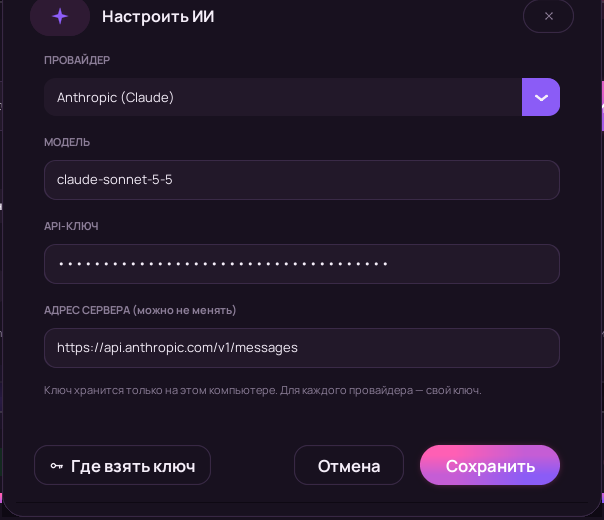
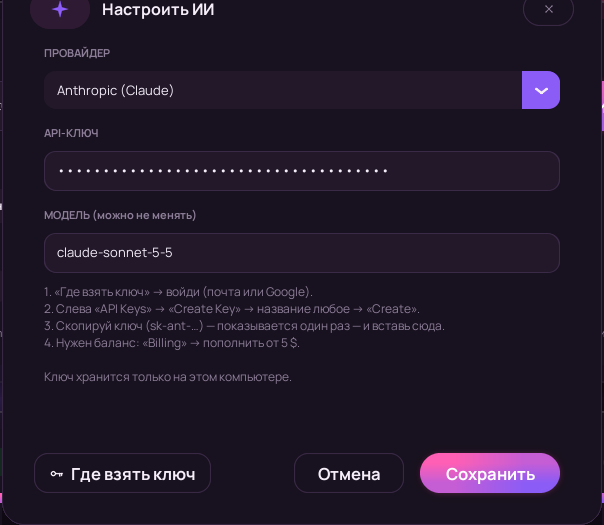
2.5.1: адрес сервера автоматом, пошаговые подсказки где взять ключ
Claude-Session: https://claude.ai/code/session_01S2yJaERcb5RkzNkB8S1xRH

diff --git a/docs/guide.html b/docs/guide.html
@@ -95,11 +95,11 @@ footer{margin-top:48px;color:var(--muted);font-size:12px;border-top:1px solid va
 <p>Работает с <b>любым ИИ</b>. При первом нажатии «Сделать через API» откроется окно <b>Настроить ИИ</b> (оно же — кнопка с шестерёнкой рядом или меню <b>ИИ → Настроить ИИ</b>):</p>
 <ol>
 <li><b>Провайдер</b> — выбери из списка: Anthropic (Claude), OpenAI (GPT), Google Gemini, DeepSeek, Mistral, Groq, xAI (Grok), OpenRouter (любая модель одним ключом), Ollama (локально, бесплатно, без ключа) или свой сервер.</li>
-<li><b>Модель</b> — подставится сама, можно оставить.</li>
-<li><b>API-ключ</b> — вставь тот, что тебе дали, или нажми <b>Где взять ключ</b> — откроется сайт провайдера. Для Ollama ключ не нужен.</li>
+<li><b>API-ключ</b> — вставь тот, что тебе дали. Нет ключа — под полями пошаговая подсказка, где его взять, а кнопка <b>Где взять ключ</b> сразу открывает нужный сайт. Для Ollama ключ не нужен.</li>
+<li><b>Модель</b> и адрес сервера подставляются сами — ничего вводить не нужно.</li>
 <li><b>Сохранить</b>. Ключ хранится только на этом компьютере, для каждого провайдера — свой.</li>
 </ol>
-<img class="shot" src="img/dialog-ai.png" alt="Окно Настроить ИИ"><p class="cap">Окно «Настроить ИИ»: провайдер, модель, ключ, адрес сервера.</p>
+<img class="shot" src="img/dialog-ai.png" alt="Окно Настроить ИИ"><p class="cap">Окно «Настроить ИИ»: провайдер, ключ, модель и пошаговая подсказка, где взять ключ.</p>
 </div></div>
 <div class="step"><div class="n">3</div><div>
 <h3>Без API — через чат Claude</h3>

diff --git a/app.py b/app.py
@@ -26,7 +26,7 @@ import urllib.request
 import tkinter as tk
 from tkinter import font as tkfont
 
-APP_VERSION = "2.5.0"
+APP_VERSION = "2.5.1"
 UPDATE_URL = "https://raw.githubusercontent.com/alegawhats-del/Whispy/main/version.json"
 GITHUB_URL = "https://github.com/alegawhats-del/Whispy"
 
@@ -1504,10 +1504,23 @@ class FilesPanel(Panel):
 
 
 class AIPanel(Panel):
-    """Настройки ИИ: провайдер, модель, ключ, адрес сервера."""
+    """Настройки ИИ: провайдер, модель, ключ. Адрес сервера подставляется сам (виден только для локальных вариантов)."""
+
+    KEY_STEPS = {
+        "Anthropic (Claude)": "1. «Где взять ключ» → войди (почта или Google).\n2. Слева «API Keys» → «Create Key» → название любое → «Create».\n3. Скопируй ключ (sk-ant-…) — показывается один раз — и вставь сюда.\n4. Нужен баланс: «Billing» → пополнить от 5 $.",
+        "OpenAI (GPT)": "1. «Где взять ключ» → войди.\n2. «Create new secret key» → «Create» → скопируй (sk-…).\n3. Нужен баланс: Settings → Billing → пополнить от 5 $.",
+        "Google Gemini": "1. «Где взять ключ» → войди в Google-аккаунт.\n2. «Create API key» → скопируй (AIza…).\n3. Есть бесплатный лимит — платить не нужно.",
+        "DeepSeek": "1. «Где взять ключ» → регистрация по почте.\n2. Слева «API keys» → «Create new API key» → скопируй (sk-…).\n3. Очень дёшево, нужно пополнить «Top up».",
+        "Mistral": "1. «Где взять ключ» → регистрация.\n2. «API Keys» → «Create new key» → скопируй.\n3. Есть бесплатный тариф Experiment.",
+        "Groq (быстро, бесплатно)": "1. «Где взять ключ» → войди через Google.\n2. «Create API Key» → название любое → скопируй (gsk_…).\n3. Бесплатно, с лимитом запросов в минуту.",
+        "xAI (Grok)": "1. «Где взять ключ» → войди (X/Google).\n2. «API Keys» → «Create API key» → скопируй (xai-…).\n3. Нужно пополнить баланс.",
+        "OpenRouter (любая модель)": "1. «Где взять ключ» → войди через Google.\n2. «Create Key» → скопируй (sk-or-…).\n3. Один ключ — сотни моделей: в поле «Модель» любое имя с openrouter.ai/models.",
+        "Ollama (локально)": "Бесплатно и без интернета:\n1. «Где взять ключ» → скачай и установи Ollama.\n2. В командной строке: ollama pull llama3.1\n3. Ключ не нужен — просто «Сохранить».",
+        "Свой сервер (OpenAI API)": "Любой OpenAI-совместимый сервер (LM Studio, vLLM, LocalAI):\nукажи адрес вида http://адрес:порт/v1/chat/completions и ключ, если сервер его требует.",
+    }
 
     def __init__(self, master):
-        super().__init__(master, 600, 545)
+        super().__init__(master, 600, 560)
         self.header("sparkle", T["VIOLET"], T["PINK_SOFT"], "Настроить ИИ")
         cfg = master.ai_cfg
         f_lab = ctk.CTkFont(family=UI_FONT, size=11, weight="bold")
@@ -1521,24 +1534,27 @@ class AIPanel(Panel):
         ctk.CTkOptionMenu(box, variable=self.prov, values=list(AI_PROVIDERS.keys()), height=38, corner_radius=12, font=f_in,
                           fg_color=T["FIELD"], button_color=T["VIOLET"], button_hover_color=T["PINK"], text_color=T["TEXT"],
                           dropdown_fg_color=T["CARD"], dropdown_text_color=T["TEXT"], dropdown_hover_color=T["PINK_SOFT"],
-                          dropdown_font=f_in, command=self._on_provider).grid(row=1, column=0, sticky="ew", pady=(4, 12))
-
-        ctk.CTkLabel(box, text="МОДЕЛЬ", text_color=T["MUTED"], font=f_lab, anchor="w").grid(row=2, column=0, sticky="w")
-        self.model = tk.StringVar(value=cfg.get("model", ""))
-        self._entry(box, self.model, f_in).grid(row=3, column=0, sticky="ew", pady=(4, 12))
+                          dropdown_font=f_in, command=self._on_provider).grid(row=1, column=0, sticky="ew", pady=(4, 10))
 
         self.key_lbl = ctk.CTkLabel(box, text="API-КЛЮЧ", text_color=T["MUTED"], font=f_lab, anchor="w")
-        self.key_lbl.grid(row=4, column=0, sticky="w")
-        self.key = tk.StringVar(value=cfg.get("keys", {}).get(self.prov.get(), ""))
+        self.key_lbl.grid(row=2, column=0, sticky="w")
+        self.key = tk.StringVar()
         self.key_entry = self._entry(box, self.key, f_in, secret=True)
-        self.key_entry.grid(row=5, column=0, sticky="ew", pady=(4, 12))
+        self.key_entry.grid(row=3, column=0, sticky="ew", pady=(4, 10))
 
-        ctk.CTkLabel(box, text="АДРЕС СЕРВЕРА (можно не менять)", text_color=T["MUTED"], font=f_lab, anchor="w").grid(row=6, column=0, sticky="w")
-        self.base = tk.StringVar(value=cfg.get("base", ""))
-        self._entry(box, self.base, f_in).grid(row=7, column=0, sticky="ew", pady=(4, 8))
+        ctk.CTkLabel(box, text="МОДЕЛЬ (можно не менять)", text_color=T["MUTED"], font=f_lab, anchor="w").grid(row=4, column=0, sticky="w")
+        self.model = tk.StringVar()
+        self._entry(box, self.model, f_in).grid(row=5, column=0, sticky="ew", pady=(4, 10))
 
-        self.hint = ctk.CTkLabel(box, text="", text_color=T["MUTED"], font=ctk.CTkFont(family=UI_FONT, size=11), anchor="w", justify="left", wraplength=520)
-        self.hint.grid(row=8, column=0, sticky="w")
+        self.base_lbl = ctk.CTkLabel(box, text="АДРЕС СЕРВЕРА", text_color=T["MUTED"], font=f_lab, anchor="w")
+        self.base_lbl.grid(row=6, column=0, sticky="w")
+        self.base = tk.StringVar()
+        self.base_entry = self._entry(box, self.base, f_in)
+        self.base_entry.grid(row=7, column=0, sticky="ew", pady=(4, 10))
+
+        self.hint = ctk.CTkLabel(box, text="", text_color=T["MUTED"], font=ctk.CTkFont(family=UI_FONT, size=12), anchor="nw",
+                                 justify="left", wraplength=530)
+        self.hint.grid(row=8, column=0, sticky="nw")
 
         btns = ctk.CTkFrame(self.body, fg_color="transparent")
         btns.pack(fill="x", padx=18, pady=(6, 8), side="bottom")
@@ -1546,7 +1562,7 @@ class AIPanel(Panel):
         GhostButton(btns, "Отмена", lambda: self.close(None), width=110, height=40, bg=T["CARD"]).pack(side="right", padx=(0, 6))
         self.keysite_btn = GhostButton(btns, "Где взять ключ", self._open_site, width=150, height=40, bg=T["CARD"], icon="key", icon_size=15)
         self.keysite_btn.pack(side="left")
-        self._on_provider(self.prov.get(), keep=True)
+        self._on_provider(self.prov.get(), first=True)
         self.bind("<Return>", lambda e: self._save())
 
     def _entry(self, parent, var, font, secret=False):
@@ -1556,23 +1572,25 @@ class AIPanel(Panel):
         e.bind("<FocusOut>", lambda ev, w=e: w.configure(border_color=T["FIELD_BORDER"]))
         return e
 
-    def _on_provider(self, name, keep=False):
+    def _on_provider(self, name, first=False):
         proto, base, model, need_key, site = AI_PROVIDERS[name]
-        if not keep or not self.model.get():
-            self.model.set(model)
-        if not keep or not self.base.get():
-            self.base.set(base)
-        self.key.set(self.app.ai_cfg.get("keys", {}).get(name, ""))
+        cfg = self.app.ai_cfg
+        saved_same = first and cfg.get("provider") == name
+        self.model.set((cfg.get("model") if saved_same else "") or model)
+        self.base.set((cfg.get("base") if saved_same else "") or base)
+        self.key.set(cfg.get("keys", {}).get(name, ""))
         self.key_entry.configure(state="normal" if need_key else "disabled")
         self.key_lbl.configure(text="API-КЛЮЧ" if need_key else "API-КЛЮЧ — не нужен")
-        self.keysite_btn.configure(state="normal" if site else "disabled")
-        tips = {
-            "Ollama (локально)": "Бесплатно и офлайн: поставь Ollama, выполни «ollama pull llama3.1» (или любую модель) — и всё работает без ключа.",
-            "OpenRouter (любая модель)": "Один ключ — сотни моделей. В поле «Модель» укажи любую с openrouter.ai/models, например openai/gpt-5 или google/gemini-2.5-pro.",
-            "Groq (быстро, бесплатно)": "Бесплатный тариф с лимитами, очень быстрые ответы. Модели: llama-3.3-70b-versatile, qwen-qwq-32b.",
-            "Свой сервер (OpenAI API)": "Любой сервер с OpenAI-совместимым API (LM Studio, vLLM, LocalAI): укажи адрес …/v1/chat/completions.",
-        }
-        self.hint.configure(text=tips.get(name, "Ключ хранится только на этом компьютере. Для каждого провайдера — свой ключ."))
+        self.keysite_btn.configure(text="Где взять ключ" if need_key else "Скачать Ollama" if "Ollama" in name else "Где взять ключ",
+                                   state="normal" if site else "disabled")
+        # адрес сервера подставляется сам; показываем поле только для локальных вариантов
+        if "localhost" in base:
+            self.base_lbl.grid()
+            self.base_entry.grid()
+        else:
+            self.base_lbl.grid_remove()
+            self.base_entry.grid_remove()
+        self.hint.configure(text=self.KEY_STEPS.get(name, "") + "\n\nКлюч хранится только на этом компьютере.")
 
     def _open_site(self):
         site = AI_PROVIDERS[self.prov.get()][4]
@@ -1582,9 +1600,10 @@ class AIPanel(Panel):
     def _save(self):
         cfg = self.app.ai_cfg
         name = self.prov.get()
+        proto, base, *_ = AI_PROVIDERS[name]
         cfg["provider"] = name
         cfg["model"] = self.model.get().strip()
-        cfg["base"] = self.base.get().strip()
+        cfg["base"] = self.base.get().strip() if "localhost" in base else ""
         cfg.setdefault("keys", {})[name] = self.key.get().strip()
         self.close(True)
 

diff --git a/NOTES.md b/NOTES.md
@@ -1,2 +1,1 @@
-• ИИ-ассистент работает с любым провайдером: Anthropic, OpenAI, Google Gemini, DeepSeek, Mistral, Groq, xAI, OpenRouter, Ollama (локально, бесплатно), свой сервер
-• Окно «Настроить ИИ»: провайдер, модель, ключ, адрес; ключи хранятся отдельно для каждого провайдера
+• Окно «Настроить ИИ»: адрес сервера подставляется сам (поле скрыто), под полями — пошаговая подсказка, где взять ключ у каждого провайдера
